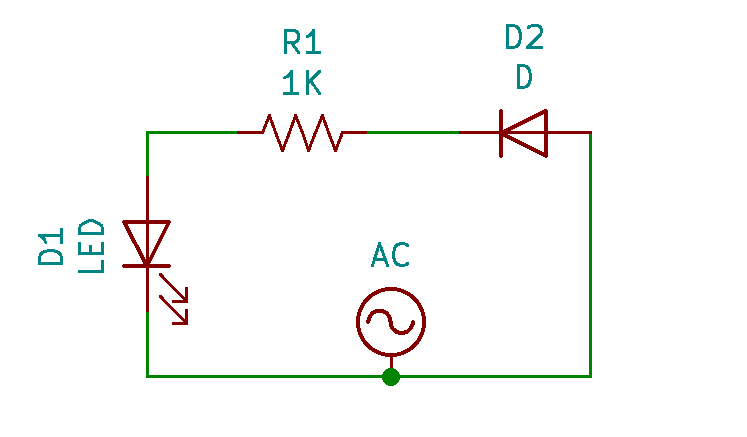
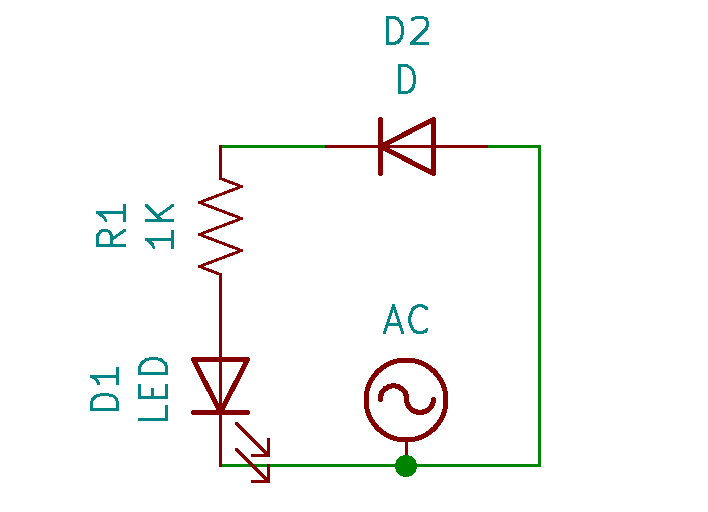
added to intro

diff --git a/projects/rectifier.html b/projects/rectifier.html
@@ -18,7 +18,9 @@
 		<hr>
 		<section>
 			<h3>Introduction</h3>
-			<p>&emsp;&emsp;</p>
+			<p>&emsp;&emsp;In electronics, rectifiers are used to convert alternating current (AC) to direct current (DC). DC is easier to understand as it is the way, current flow is traditionally explained. Electrons flow from one terminal to the other, in the process powering whatever load the circuit may demand. Conventionally this flow of electrons is from the positive terminal to the negative terminal, but in actuality electrons are attracted to the positive terminal and repelled by the negative terminal. To my knowledge, all control electronics rely on direct current for operation. DC can be supplied by batteries, but if you're planning to power your circuit from a wall outlet you're going to need to rectify that AC before allowing current to flow through your circuit. Typically, DC is visualized as a flat line of positive voltage. In reality, this is not always the case. Noise in the circuit can produce little oscillations about this flat voltage line generating ripple in the supply current. This is a common concern when using switching power supply circuits such as DC-DC voltage converters.</p> 
+			<p>&emsp;&emsp;On the other hand, AC is not so intuitive. Instead of flowing in one direction, electrons are pulled back and forth through the circuit at a fast rate. This is accomplished by reversing the voltage&mdash;the force pushing or pulling the electrons&mdash;from positive to negative. In the home, wall outlets are commonly understood to have a voltage of 120V and alternate at a frequency of 60 Hz. 120V is the root-mean-square (RMS) voltage of the AC source, while the voltage is actually oscillating back and forth between -170V and +170V. RMS voltage is basically a convenient metric for measuring the magnitude of alternating current in a way that is comparable with direct current. As the name would suggest, one could calculate the RMS voltage by recording at high resolution one period of oscillation of the AC signal, squaring each value, averaging them, and taking the square root. DC at the RMS voltage level would effectively have the same impact on the circuit as the AC voltage in terms of power dissipation. AC is used to transport energy over long distances such as over power lines since it is more efficient than DC. Additionally, wireless chargers rely on AC to induce currents in wires separated in space. Typically, AC is visualized as a sinusoidal wave centered about zero voltage. This a valid representation of the current flowing from the wall outlet, but again may be suscepitble to noise.</p>
+			<p>&emsp;&emsp;The most typical method for rectifying AC to DC is to use what is called a full bridge rectifier. Behind an intimidatingly long name lies a relatively simple concept relying just on some diodes to restrict voltage flow in one direction. </p>
 			<img src="../images/electronics/rectifier/iphoneFrameRate.png" alt="Screenshot of iPhone Camera Settings" class="center">
 			<p class="label">iPhone Camera Settings</p>
 			<img src="../images/electronics/rectifier/supplies.jpg" alt="Electronic Supplies Laid on Table" class="center">
@@ -86,6 +88,8 @@
 			<h3>Full Bridge Rectifier</h3>
 			<p>&emsp;&emsp;</p>
 			<h4>No Smoothing Capacitors</h4>
+			<img src="../images/electronics/rectifier/full_none_circuit.png" alt="Circuit Schematic on KiCAD" class="center">
+			<p class="label">Circuit Schematic: Full Bridge Rectifier</p>
 			<img src="../images/electronics/rectifier/full_none.jpg" alt="Circuits Components Arranged on Breadboard" class="center">
 			<p class="label">Breadboard Circuit: Full Bridge Rectifier</p>
 			<video controls="controls" name="Full Bridge Rectifier - Real Time" src="../images/electronics/rectifier/full_none_norm.mp4" class="center"></video>
@@ -98,6 +102,8 @@
 
 			<h4>One Smoothing Capacitor</h4>
 			<p>&emsp;&emsp;</p>
+			<img src="../images/electronics/rectifier/full_cap_circuit.png" alt="Circuit Schematic on KiCAD" class="center">
+			<p class="label">Circuit Schematic: Full Bridge Rectifier with One Capacitor</p>
 			<img src="../images/electronics/rectifier/full_cap.jpg" alt="Circuits Components Arranged on Breadboard" class="center">
 			<p class="label">Breadboard Circuit: Full Bridge Rectifier with One Capacitor</p>
 			<video controls="controls" name="Full Bridge Rectifier with One Smoothing Capacitor - Real Time" src="../images/electronics/rectifier/full_cap_norm.mp4" class="center"></video>
@@ -109,6 +115,8 @@
 
 			<h4>Many Smoothing Capacitors</h4>
 			<p>&emsp;&emsp;</p>
+			<img src="../images/electronics/rectifier/full_allCaps_circuit.png" alt="Circuit Schematic on KiCAD" class="center">
+			<p class="label">Circuit Schematic: Full Bridge Rectifier with Many Capacitors</p>
 			<img src="../images/electronics/rectifier/full_allCaps.jpg" alt="Circuits Components Arranged on Breadboard" class="center">
 			<p class="label">Breadboard Circuit: Full Bridge Rectifier with Many Capacitors</p>
 			<video controls="controls" name="Full Bridge Rectifier with Many Smoothing Capacitors - Real Time" src="../images/electronics/rectifier/full_allCaps_norm.mp4" class="center"></video>
